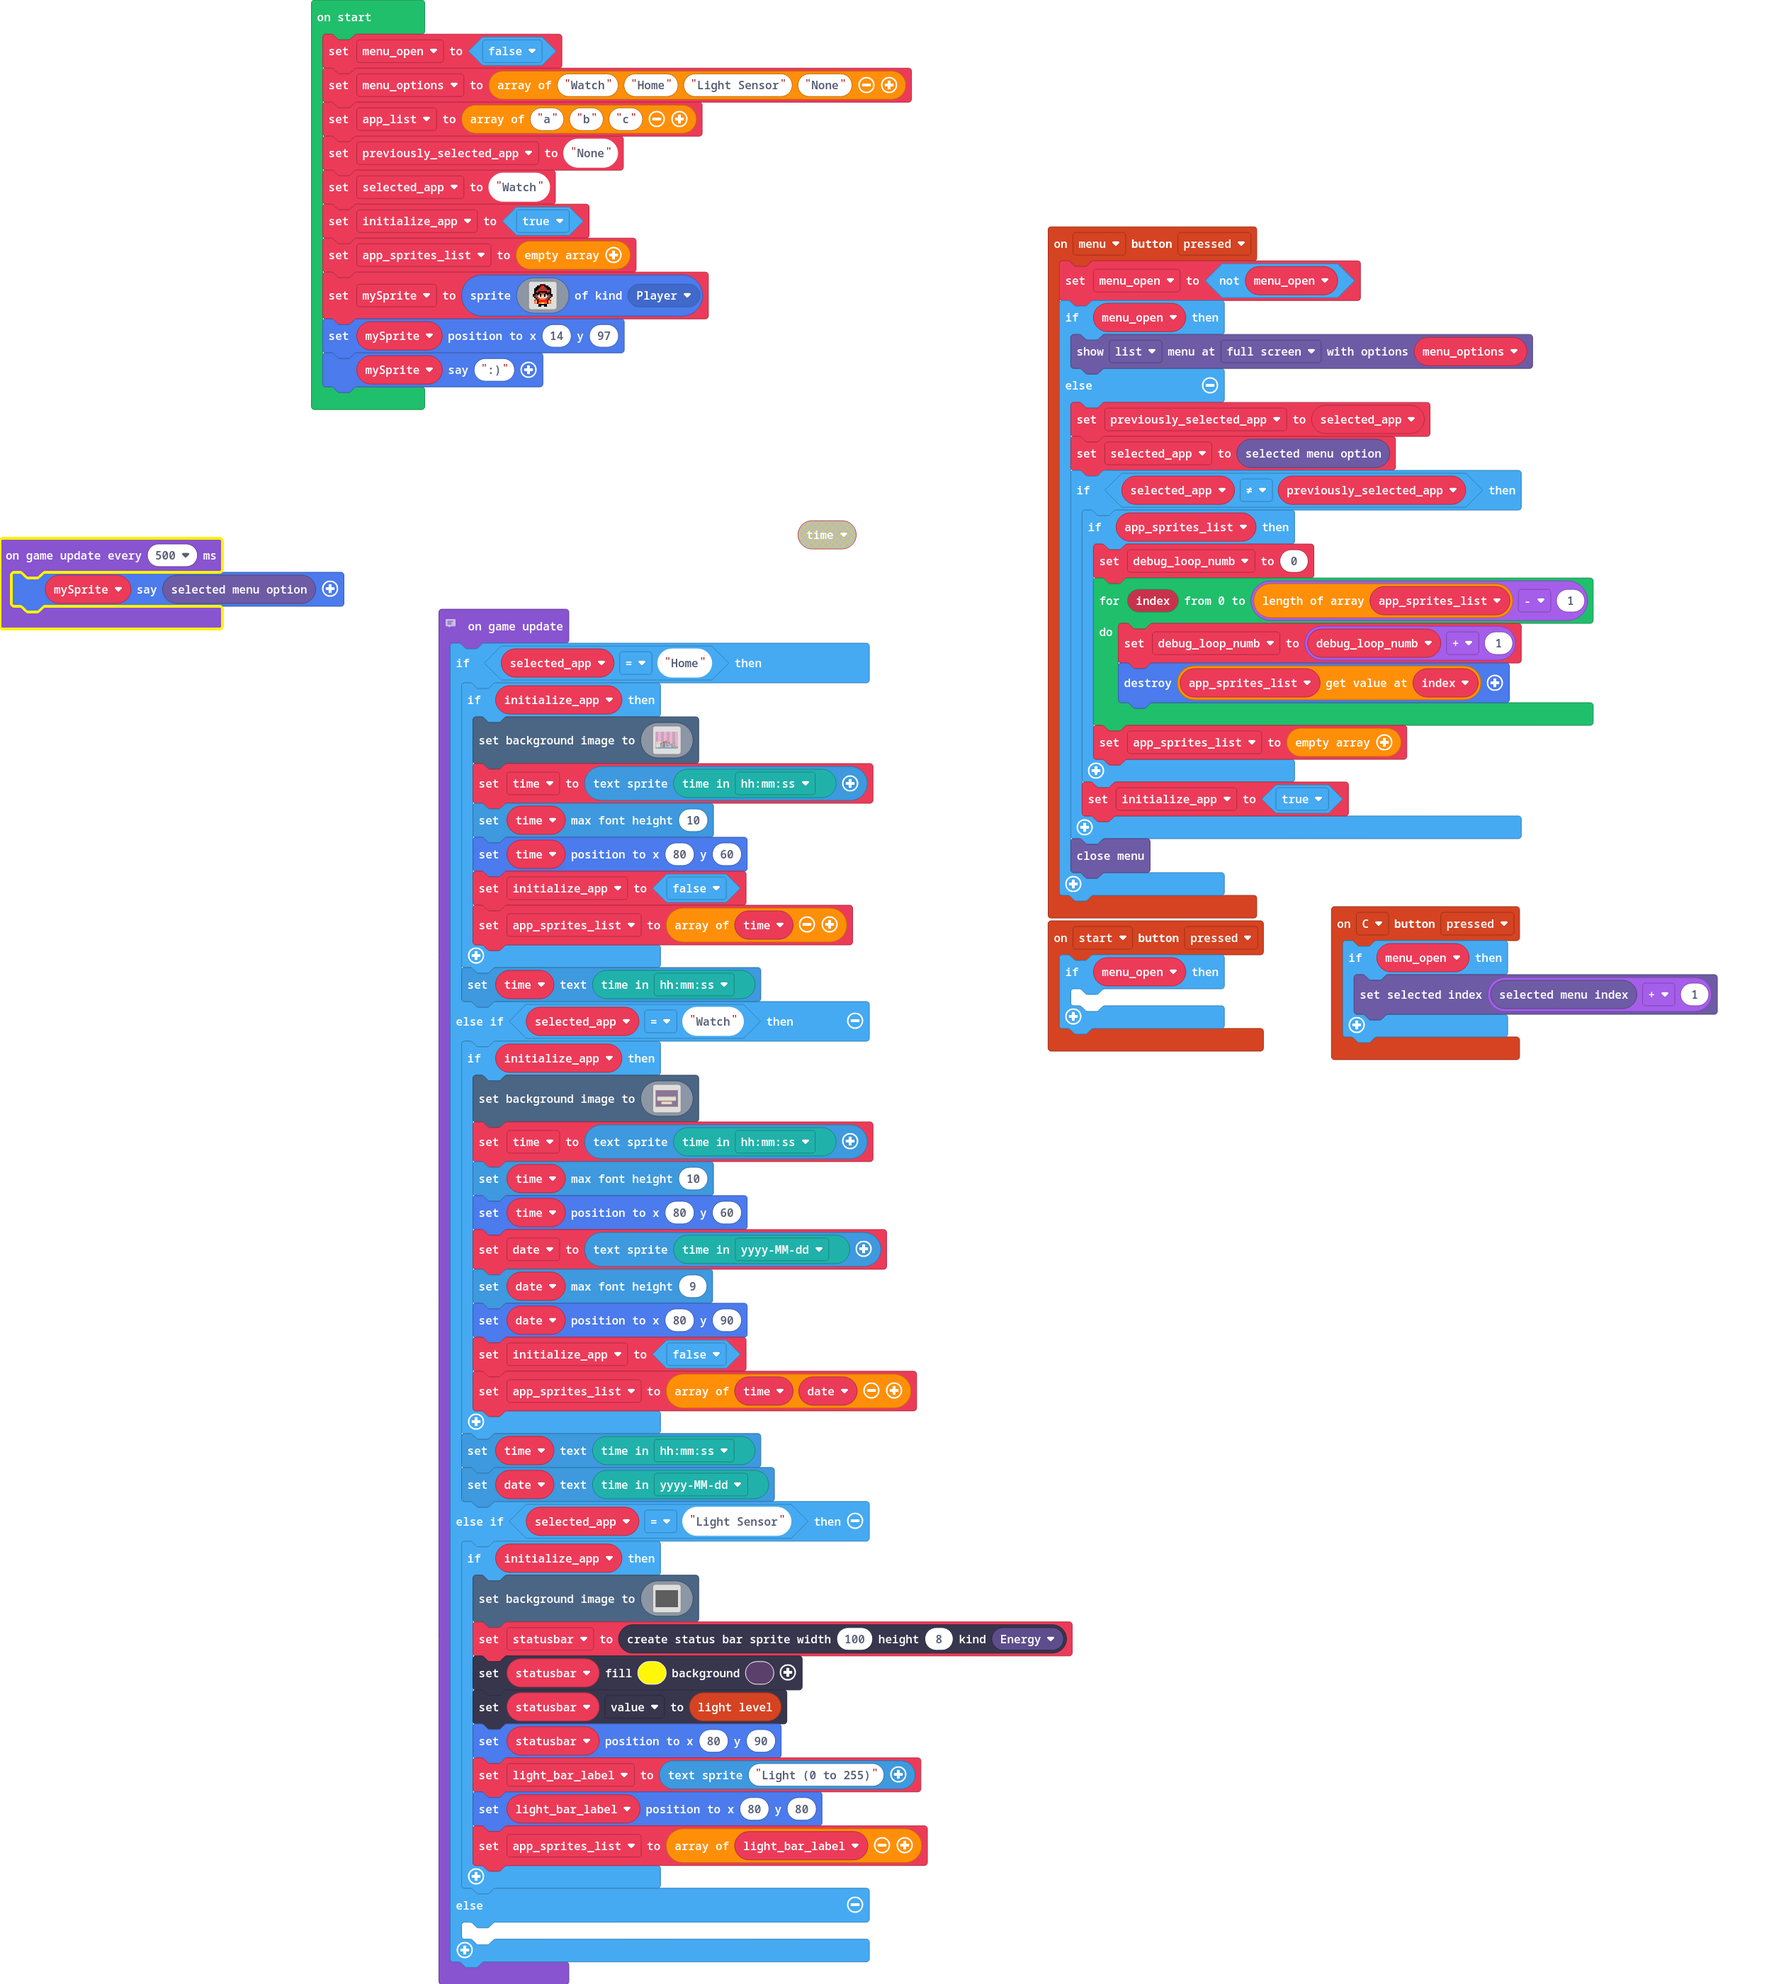
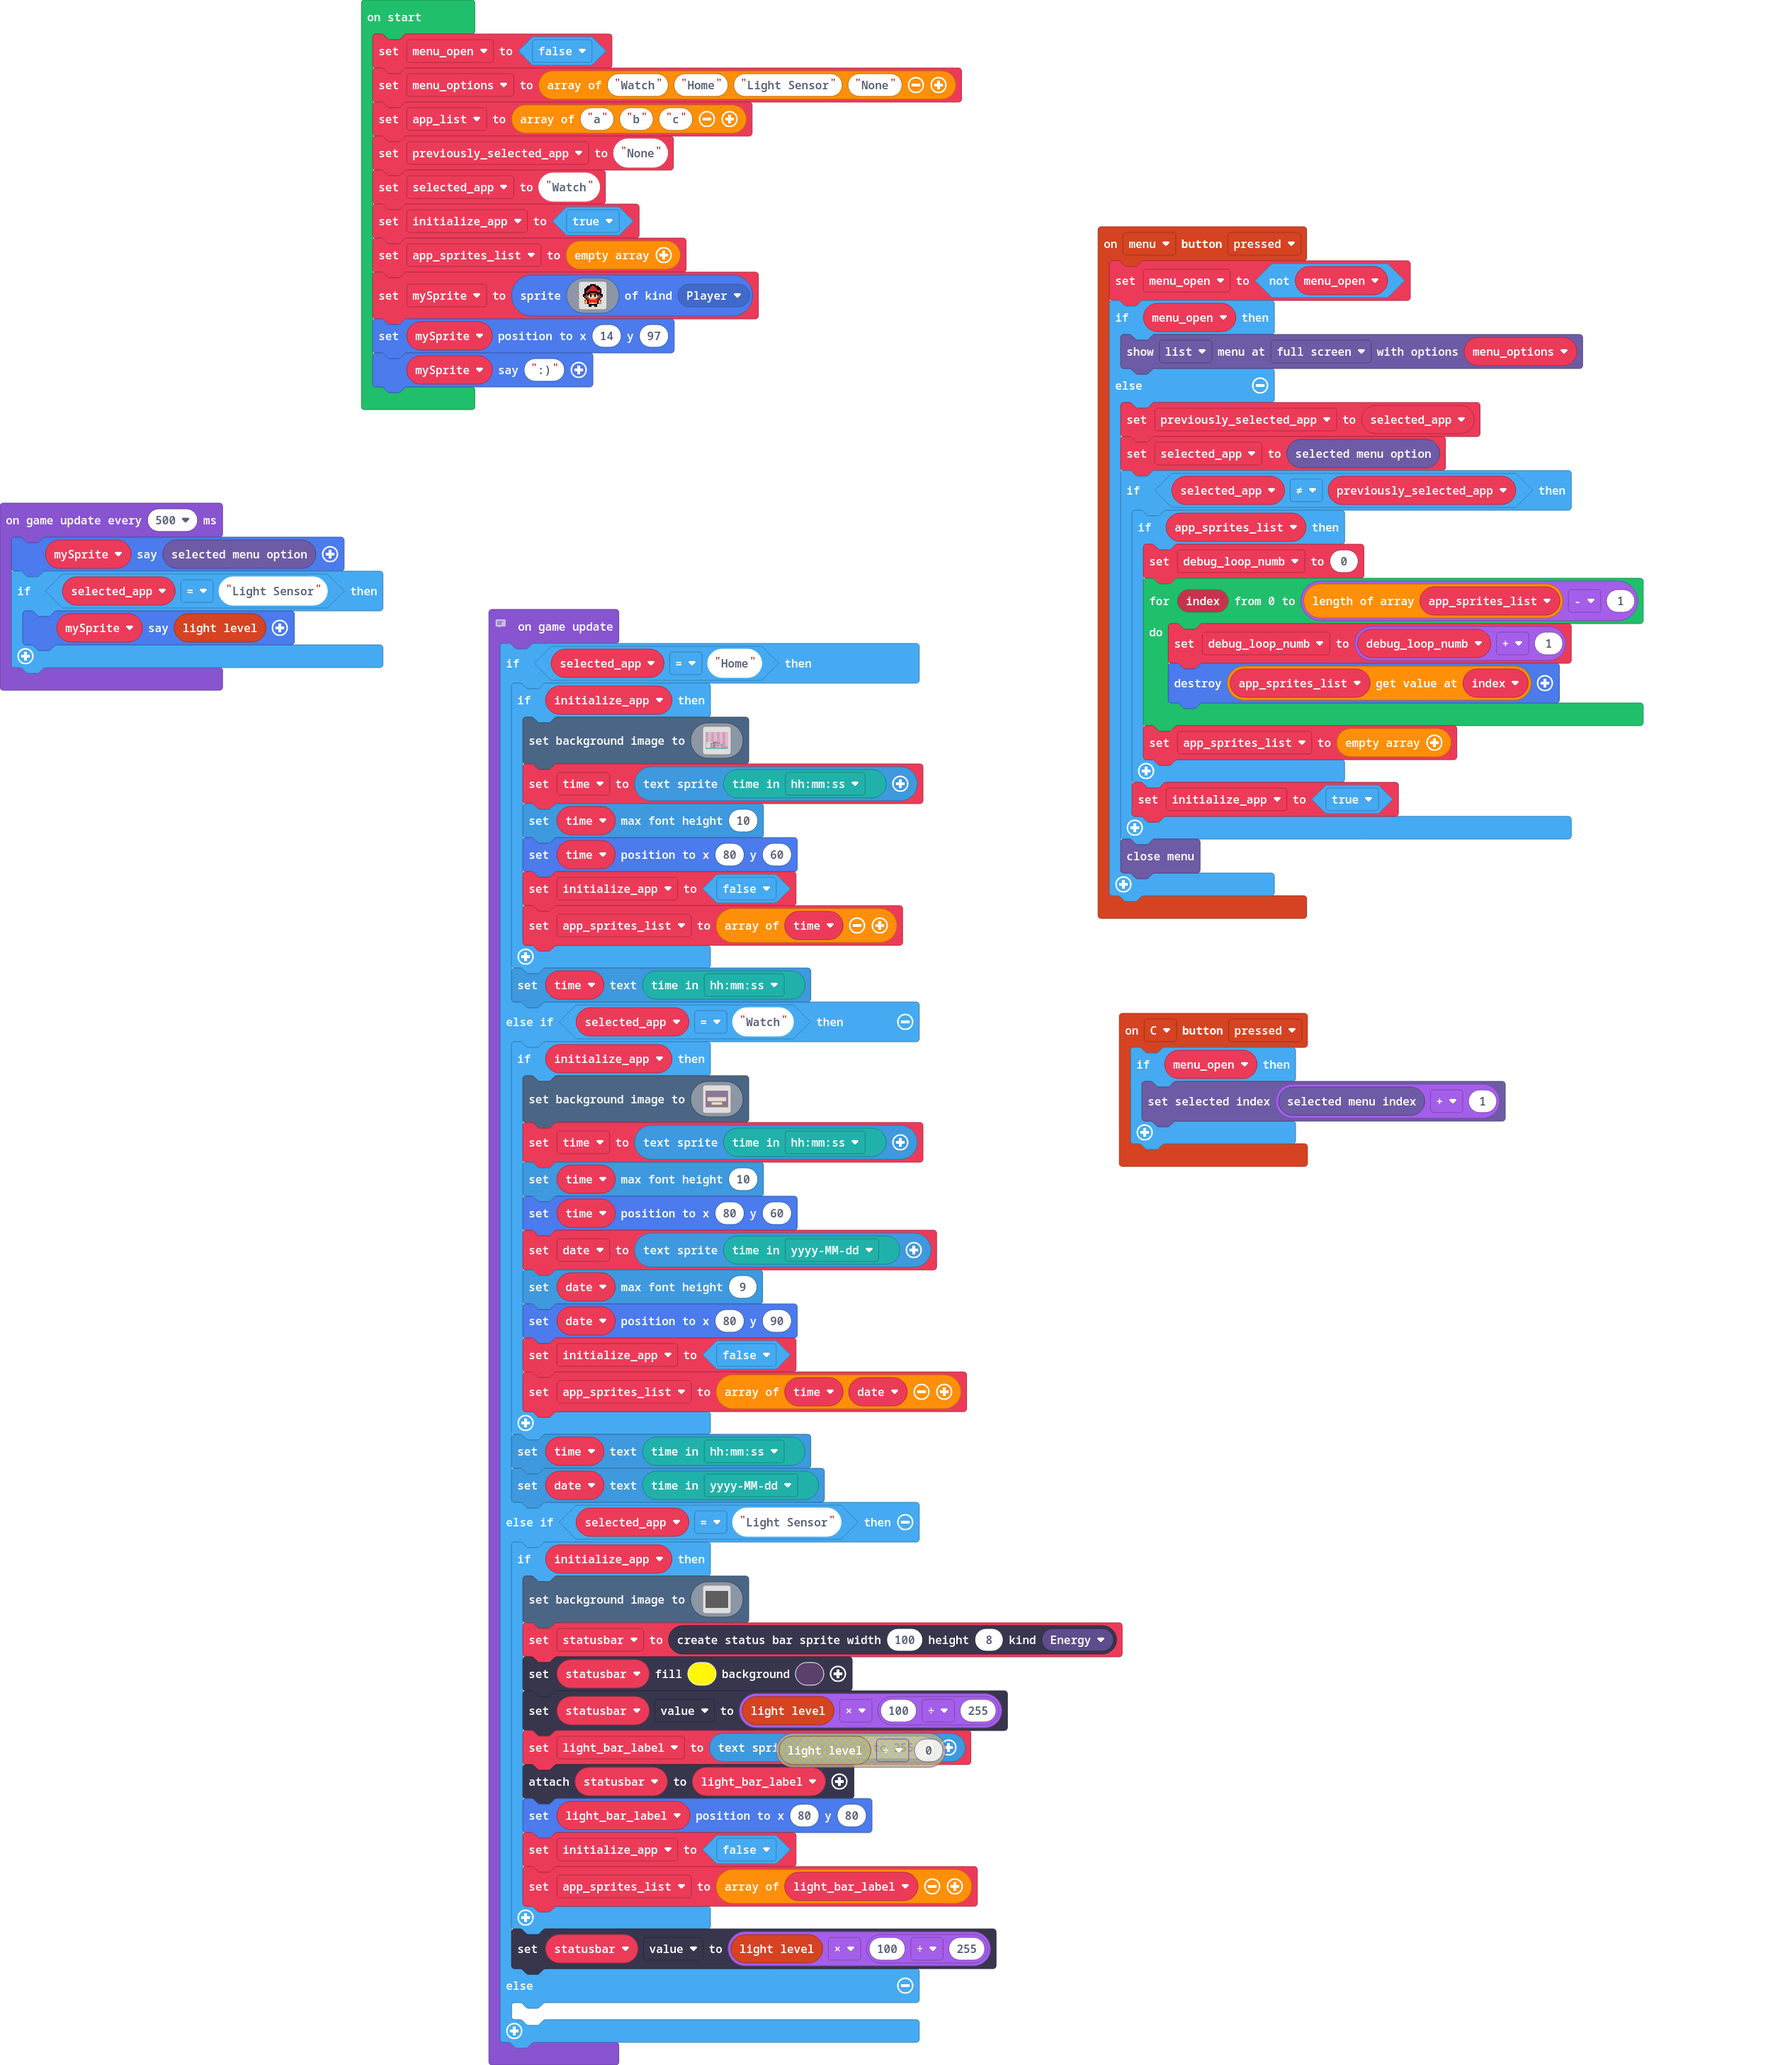
light sensor bar adjustment. 10 - 255 light sensor now displays correctly on 0 - 100px bar.

diff --git a/main.ts b/main.ts
@@ -1,8 +1,3 @@
-controller.start.onEvent(ControllerButtonEvent.Pressed, function () {
-    if (menu_open) {
-    	
-    }
-})
 controller.C.onEvent(ControllerButtonEvent.Pressed, function () {
     if (menu_open) {
         blockMenu.setSelectedIndex(blockMenu.selectedMenuIndex() + 1)
@@ -219,16 +214,21 @@ game.onUpdate(function () {
             scene.setBackgroundImage(assets.image`black-bg`)
             statusbar = statusbars.create(100, 8, StatusBarKind.Energy)
             statusbar.setColor(5, 12)
-            statusbar.value = controller.lightLevel()
-            statusbar.setPosition(80, 90)
+            statusbar.value = controller.lightLevel() * (100 / 255)
             light_bar_label = textsprite.create("Light (0 to 255)")
+            statusbar.attachToSprite(light_bar_label)
             light_bar_label.setPosition(80, 80)
+            initialize_app = false
             app_sprites_list = [light_bar_label]
         }
+        statusbar.value = controller.lightLevel() * (100 / 255)
     } else {
     	
     }
 })
 game.onUpdateInterval(500, function () {
     mySprite.say(blockMenu.selectedMenuOption())
+    if (selected_app == "Light Sensor") {
+        mySprite.say(controller.lightLevel())
+    }
 })
